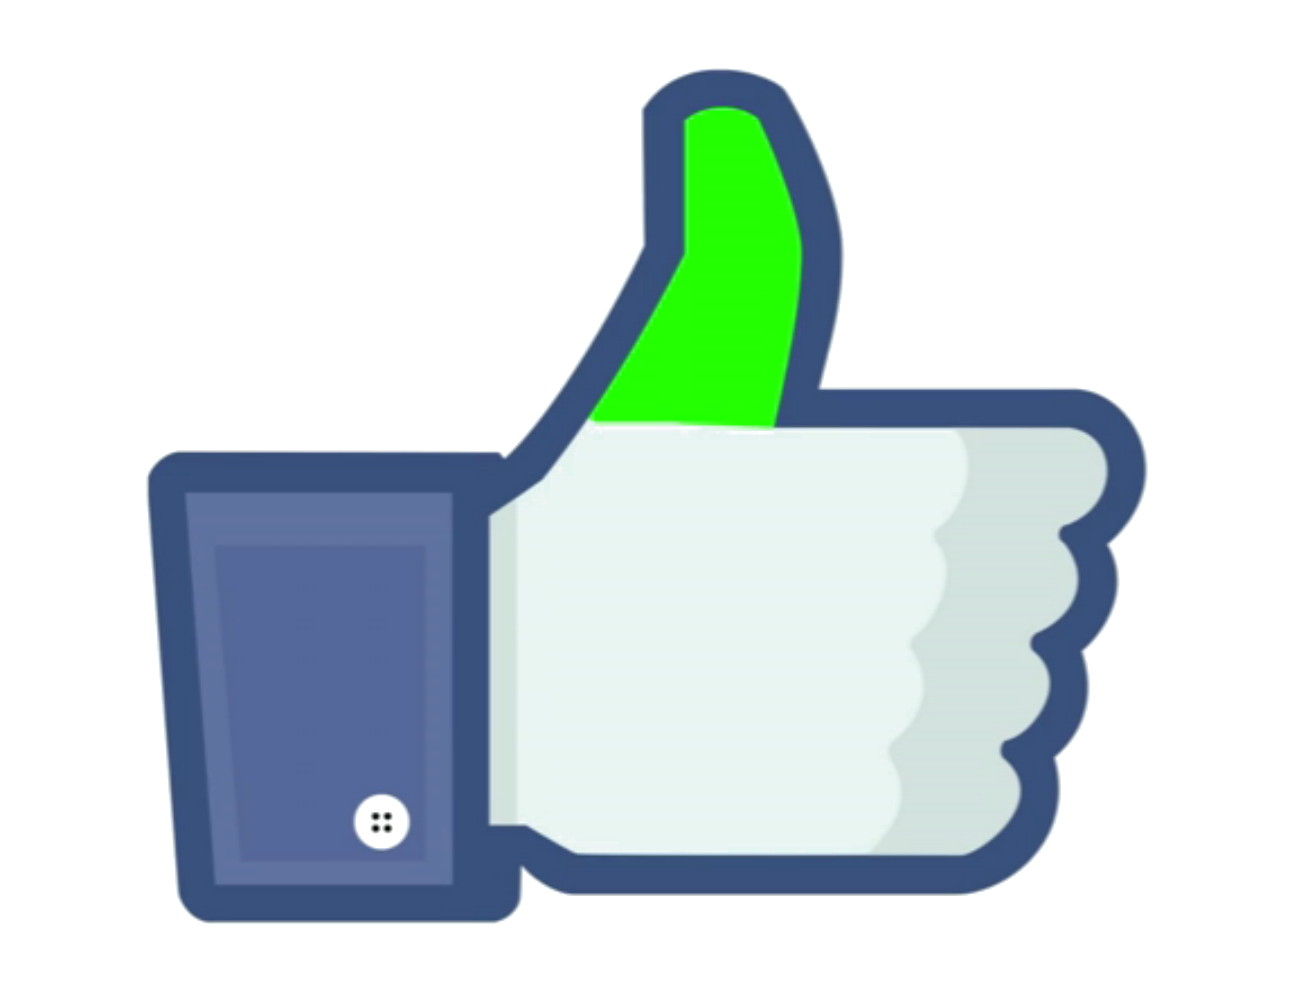
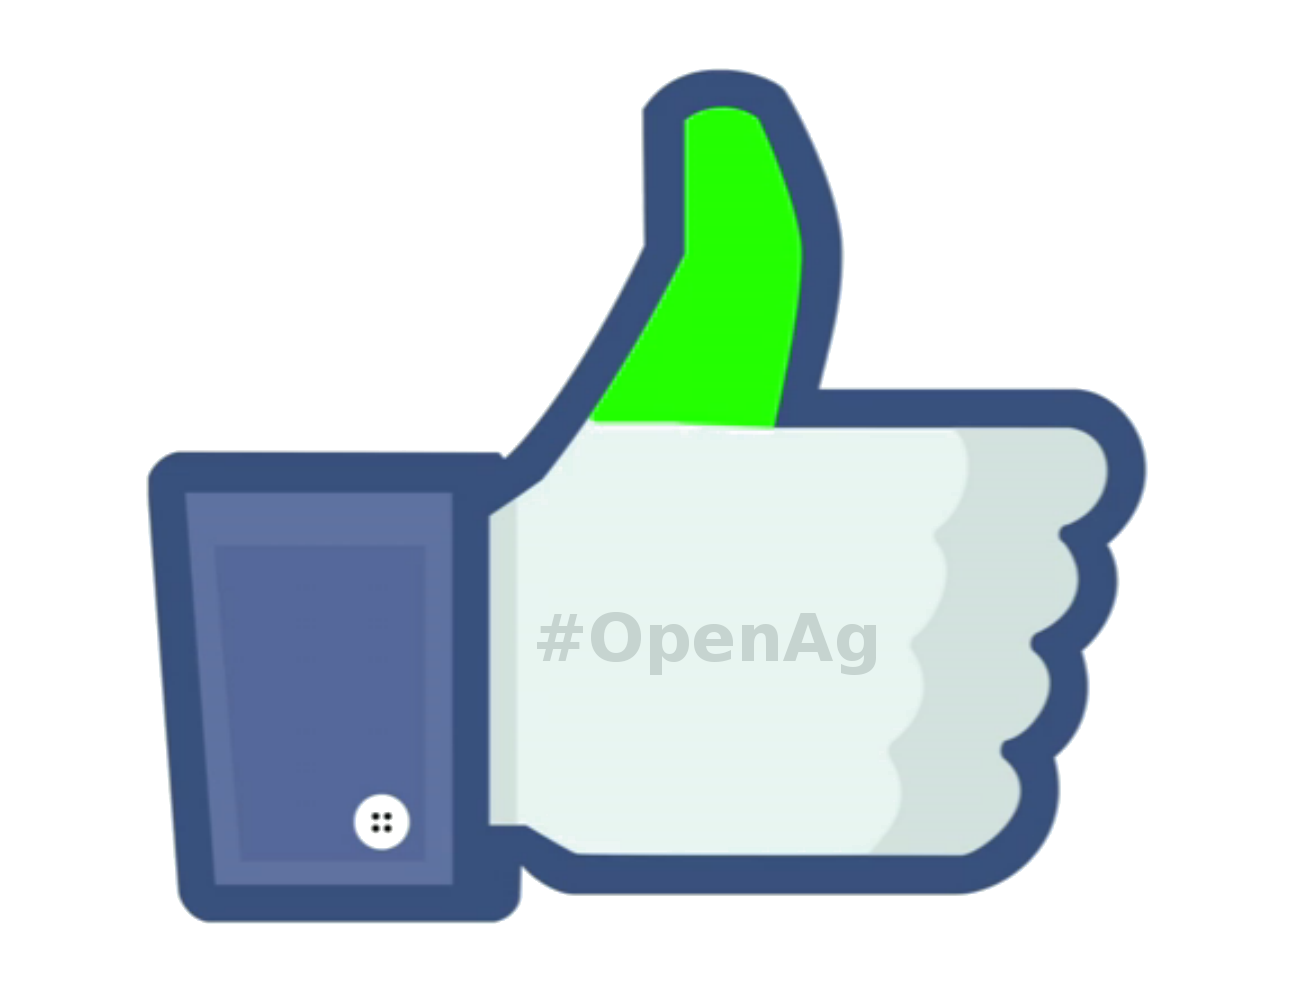
More tweaks.

Changed region(s): [[0.3979, 0.6116, 0.6733, 0.7034]]

diff --git a/index.html b/index.html
@@ -23,9 +23,9 @@ layout: default
   <div class="container">
         <div class="row call-to-action">
             <div class="col-lg-6 visible-lg">
-              <img src="img/greenthumb.png">    
+              <a href="https://twitter.com/search?q=%23OpenAg&src=typd"><img src="img/greenthumb.png"></a>
             </div>
-            <div class="col-lg-6">
+            <div class="col-lg-6" id="email-signup">
               <p>We want to <em>enable everyone</em> to sustainably grow things; 
               for <em><span id="role">food</span></em>.</p>
 
@@ -35,12 +35,15 @@ layout: default
               <div id="mc_embed_signup">
                   <form action="//commongarden.us10.list-manage.com/subscribe/post?u=81f1da6ff0b51ea5d0fedefdb&amp;id=f23d844980" method="post" id="mc-embedded-subscribe-form" name="mc-embedded-subscribe-form" class="validate" target="_blank" novalidate>
                     <div id="mc_embed_signup_scroll">
-                      <div class="form-group">
-                        <input type="email" value="" name="EMAIL" id="mce-EMAIL" class="form-control transparent-form" placeholder="Enter email address" required>
+                      <div class="input-group">
+                        <input type="email" value="" name="EMAIL" id="mce-EMAIL" class="form-control cg-input" placeholder="Enter email address" required>
+                        <span class="input-group-btn">
+                          <input type="submit" value="Stay up to date" name="subscribe" id="mc-embedded-subscribe" class="btn cg-btn btn-lg">
+                        </span>
                       </div>
                         <!-- real people should not fill this in and expect good things - do not remove this or risk form bot signups-->
                         <div style="position: absolute; left: -5000px;"><input type="text" name="b_81f1da6ff0b51ea5d0fedefdb_f23d844980" tabindex="-1" value=""></div>
-                        <div class="clear text-center"><input type="submit" value="Stay up to date" name="subscribe" id="mc-embedded-subscribe" class="btn cg-btn"></div>
+                        <!-- <div class="clear text-center"><input type="submit" value="Stay up to date" name="subscribe" id="mc-embedded-subscribe" class="btn cg-btn"></div> -->
                     </div>
                   </form>
               </div>
@@ -59,25 +62,25 @@ layout: default
       <div class="col-lg-6">
         <h3>We are making open software, hardware, and datasets for the Internet of Living Things.</h3>
 
-        <p>We will soon be launching the alpha version of our Grow-IoT framework and meteor app. It allows you to easily:</p>
+        <h4>We will soon be launching the alpha version of our Grow-IoT framework and meteor app. It allows you to easily:</h4>
           <ul>
             <li>Setup your own IoT network</li>
-            <li>Connect IoT devices and use them to control, monitor, and automate environmental variables like:</li>
+            <li>Securely connect IoT devices and use them to control and automate environmental variables like:</li>
             <ul>
               <li>Lighting</li>
               <li>Watering</li>
               <li>Ph</li>
               <li>Nutrient dosing</li>
             </ul>
-            <li>Organize and keep track of what you have growing, where, and when it will be ready.</li>
             <li>See realtime data streaming from sensors.</li>
-            <li>Create custom IoT devices with boards like the Raspberry Pi, ESP8266, or Chip ‘the $9 computer.'</li>
+            <li>Organize and keep track of what is growing.</li>
+            <li>Create custom IoT devices with boards like the <a href="https://www.raspberrypi.org/blog/raspberry-pi-zero/">$5 Raspberry Pi Zero</a>, <a href="https://tessel.io/">the extremely easy to use Tessel 2</a>, or <a href="http://getchip.com/">Chip ‘the $9 computer.'</a></li>
           </ul>
         </p>
 
-        <iframe src="https://ghbtns.com/github-btn.html?user=CommonGarden&repo=Grow-IoT&type=star&count=true&size=large" frameborder="0" scrolling="0" width="160px" height="30px"></iframe>
+        <!-- <iframe src="https://ghbtns.com/github-btn.html?user=CommonGarden&repo=Grow-IoT&type=star&count=true&size=large" frameborder="0" scrolling="0" width="160px" height="30px"></iframe>
 
-        <iframe src="https://ghbtns.com/github-btn.html?user=CommonGarden&repo=Grow-IoT&type=fork&count=true&size=large" frameborder="0" scrolling="0" width="158px" height="30px"></iframe>
+        <iframe src="https://ghbtns.com/github-btn.html?user=CommonGarden&repo=Grow-IoT&type=fork&count=true&size=large" frameborder="0" scrolling="0" width="158px" height="30px"></iframe> -->
 
       </div>
     </div>
@@ -86,17 +89,33 @@ layout: default
 
     <div class="row">
       <div class="col-lg-6">
-        <h3>Interoperable open hardware modules for computer controlled environments</h3>
-        <p>Build <a href="">"food computers"</a> using:</p>        
+        <h3>Interoperable hardware for controlled environments</h3>
+        <p>Build <a href="https://www.ted.com/talks/caleb_harper_this_computer_will_grow_your_food_in_the_future?language=en">"food computers"</a> using:</p>        
         <ul>
-          <li>Sensors: light, temperature, humidity, ph, CO2, electrical conductivity, dissolved oxygen, etc.</li>
-          <li>Acutators: smart power strips (with which people can connect lights, humidifiers, heaters, fans, air pumps), dosing pumps, etc.</li>
+          <li><strong>Sensors:</strong> light, temperature, humidity, ph, CO2, electrical conductivity, dissolved oxygen, etc.</li>
+          <li><strong>Acutators:</strong> smart power strips (with which people can connect lights, humidifiers, heaters, fans, air pumps), relays, dosing pumps, etc.</li>
         </ul>
       </div>
       <div class="col-lg-6 text-center">
         <img src="img/open-source.png">
         <img src="img/no_lockin.jpg">
-        <!-- <img src="img/opensci.png"> -->
+      </div>
+    </div>
+
+    <hr/>
+
+    <div class="container">
+      <div class="built-with row">
+        <div class="col-lg-12">
+          <h3>Built with powerful open source technologies:</h3>
+          <div class="text-center">
+            <a href="https://www.meteor.com/"><img src="img/meteor-logo.png"></a>
+            <a href="https://ethereum.org/"><img src="img/Ethereum.png"></a>
+            <a href="https://nodejs.org/en/"><img src="img/nodejs.png"></a>
+            <a href="https://www.tensorflow.org/"><img src="img/TensorFlow.png"></a>
+            <a href="https://ipfs.io/"><img src="img/ipfs-logo-white.png"></a>
+          </div>
+        </div> 
       </div>
     </div>
 

diff --git a/_sass/_commongarden.scss b/_sass/_commongarden.scss
@@ -1,7 +1,15 @@
 //// Header
-#mce-EMAIL {
-  margin-top: 15px;
-  margin-bottom: 30px;
+#mc_embed_signup {
+  padding-top: 7px;
+}
+
+hr {
+  margin-top: 50px;
+  margin-bottom: 50px;
+}
+
+#email-signup {
+  padding-top: 30px
 }
 
 .header-image {
@@ -55,18 +63,18 @@ body {
 
 //// Forms
 input {
-  &.transparent-form {
-    background-color: transparent;
-    border: none !important;
-    font-size: 2em;
-    height: 2em;
-    text-align: center;
-    box-shadow: none !important;
+  &.cg-input {
+    // background-color: transparent;
+    // border: none !important;
+    font-size: 1.9em;
+    height: 1.5em;
+    // text-align: center;
+    // box-shadow: none !important;
   }
 }
 
 .cg-btn {
-  color: rgba(0, 0, 0, 0.8);
+  // color: rgba(0, 0, 0, 0.8);
   background-color: #34997C;
 }
 
@@ -81,11 +89,11 @@ input {
   }
 
 
-  .cg-btn {
-    width: 300px;
-    height: 75px;
-    font-size: 1.5em;
-  }
+  // .cg-btn {
+  //   width: 300px;
+  //   height: 75px;
+  //   font-size: 1.5em;
+  // }
 }
 
 // /* For mobile devices */
@@ -96,10 +104,18 @@ input {
       p { font-size: 1.7em; }
     }
 
-  .cg-btn {
-    width: 300px;
-    height: 75px;
-    font-size: 1.5em;
+  // .cg-btn {
+  //   width: 300px;
+  //   height: 75px;
+  //   font-size: 1.5em;
+  // }
+}
+
+.built-with {
+  img {
+    max-width: 200px;
+    padding: 10px;
+    opacity: 0.8;
   }
 }
 
@@ -116,11 +132,11 @@ input {
       p { font-size: 1.2em; }
     }
 
-    .cg-btn {
-      width: 200px;
-      height: 50px;
-      font-size: 1.2em;
-    }
+    // .cg-btn {
+    //   width: 200px;
+    //   height: 50px;
+    //   font-size: 1.2em;
+    // }
 }
 
 // /* Media Queries */
@@ -134,10 +150,10 @@ input {
     p { font-size: 1em; }
   }
 
-  .cg-btn {
-    width: 150px;
-    height: 45px;
-    font-size: .8em;
-  }
+  // .cg-btn {
+  //   width: 150px;
+  //   height: 45px;
+  //   font-size: .8em;
+  // }
 
 }

diff --git a/_includes/header.html b/_includes/header.html
@@ -20,7 +20,7 @@
     <div class="col-lg-12 content visible-lg text-center">
       <ul class="nav nav-justified">
         <li role="presentation"><a href="#contact">Contact</a></li>
-        <li role="presentation"><a href="https://github.com/CommonGarden/Grow-IoT">Documentation</a></li>
+        <li role="presentation"><a href="https://github.com/CommonGarden/Grow-IoT">Code</a></li>
         <li role="presentation"><a href="http://forum.commongarden.org">Forum</a></li>
         <li role="presentation"><a href="https://grow.commongarden.org">Login</a></li>
       </ul>

diff --git a/_includes/footer.html b/_includes/footer.html
@@ -1,1 +1,2 @@
-<footer></footer>
+<footer>
+</footer>
